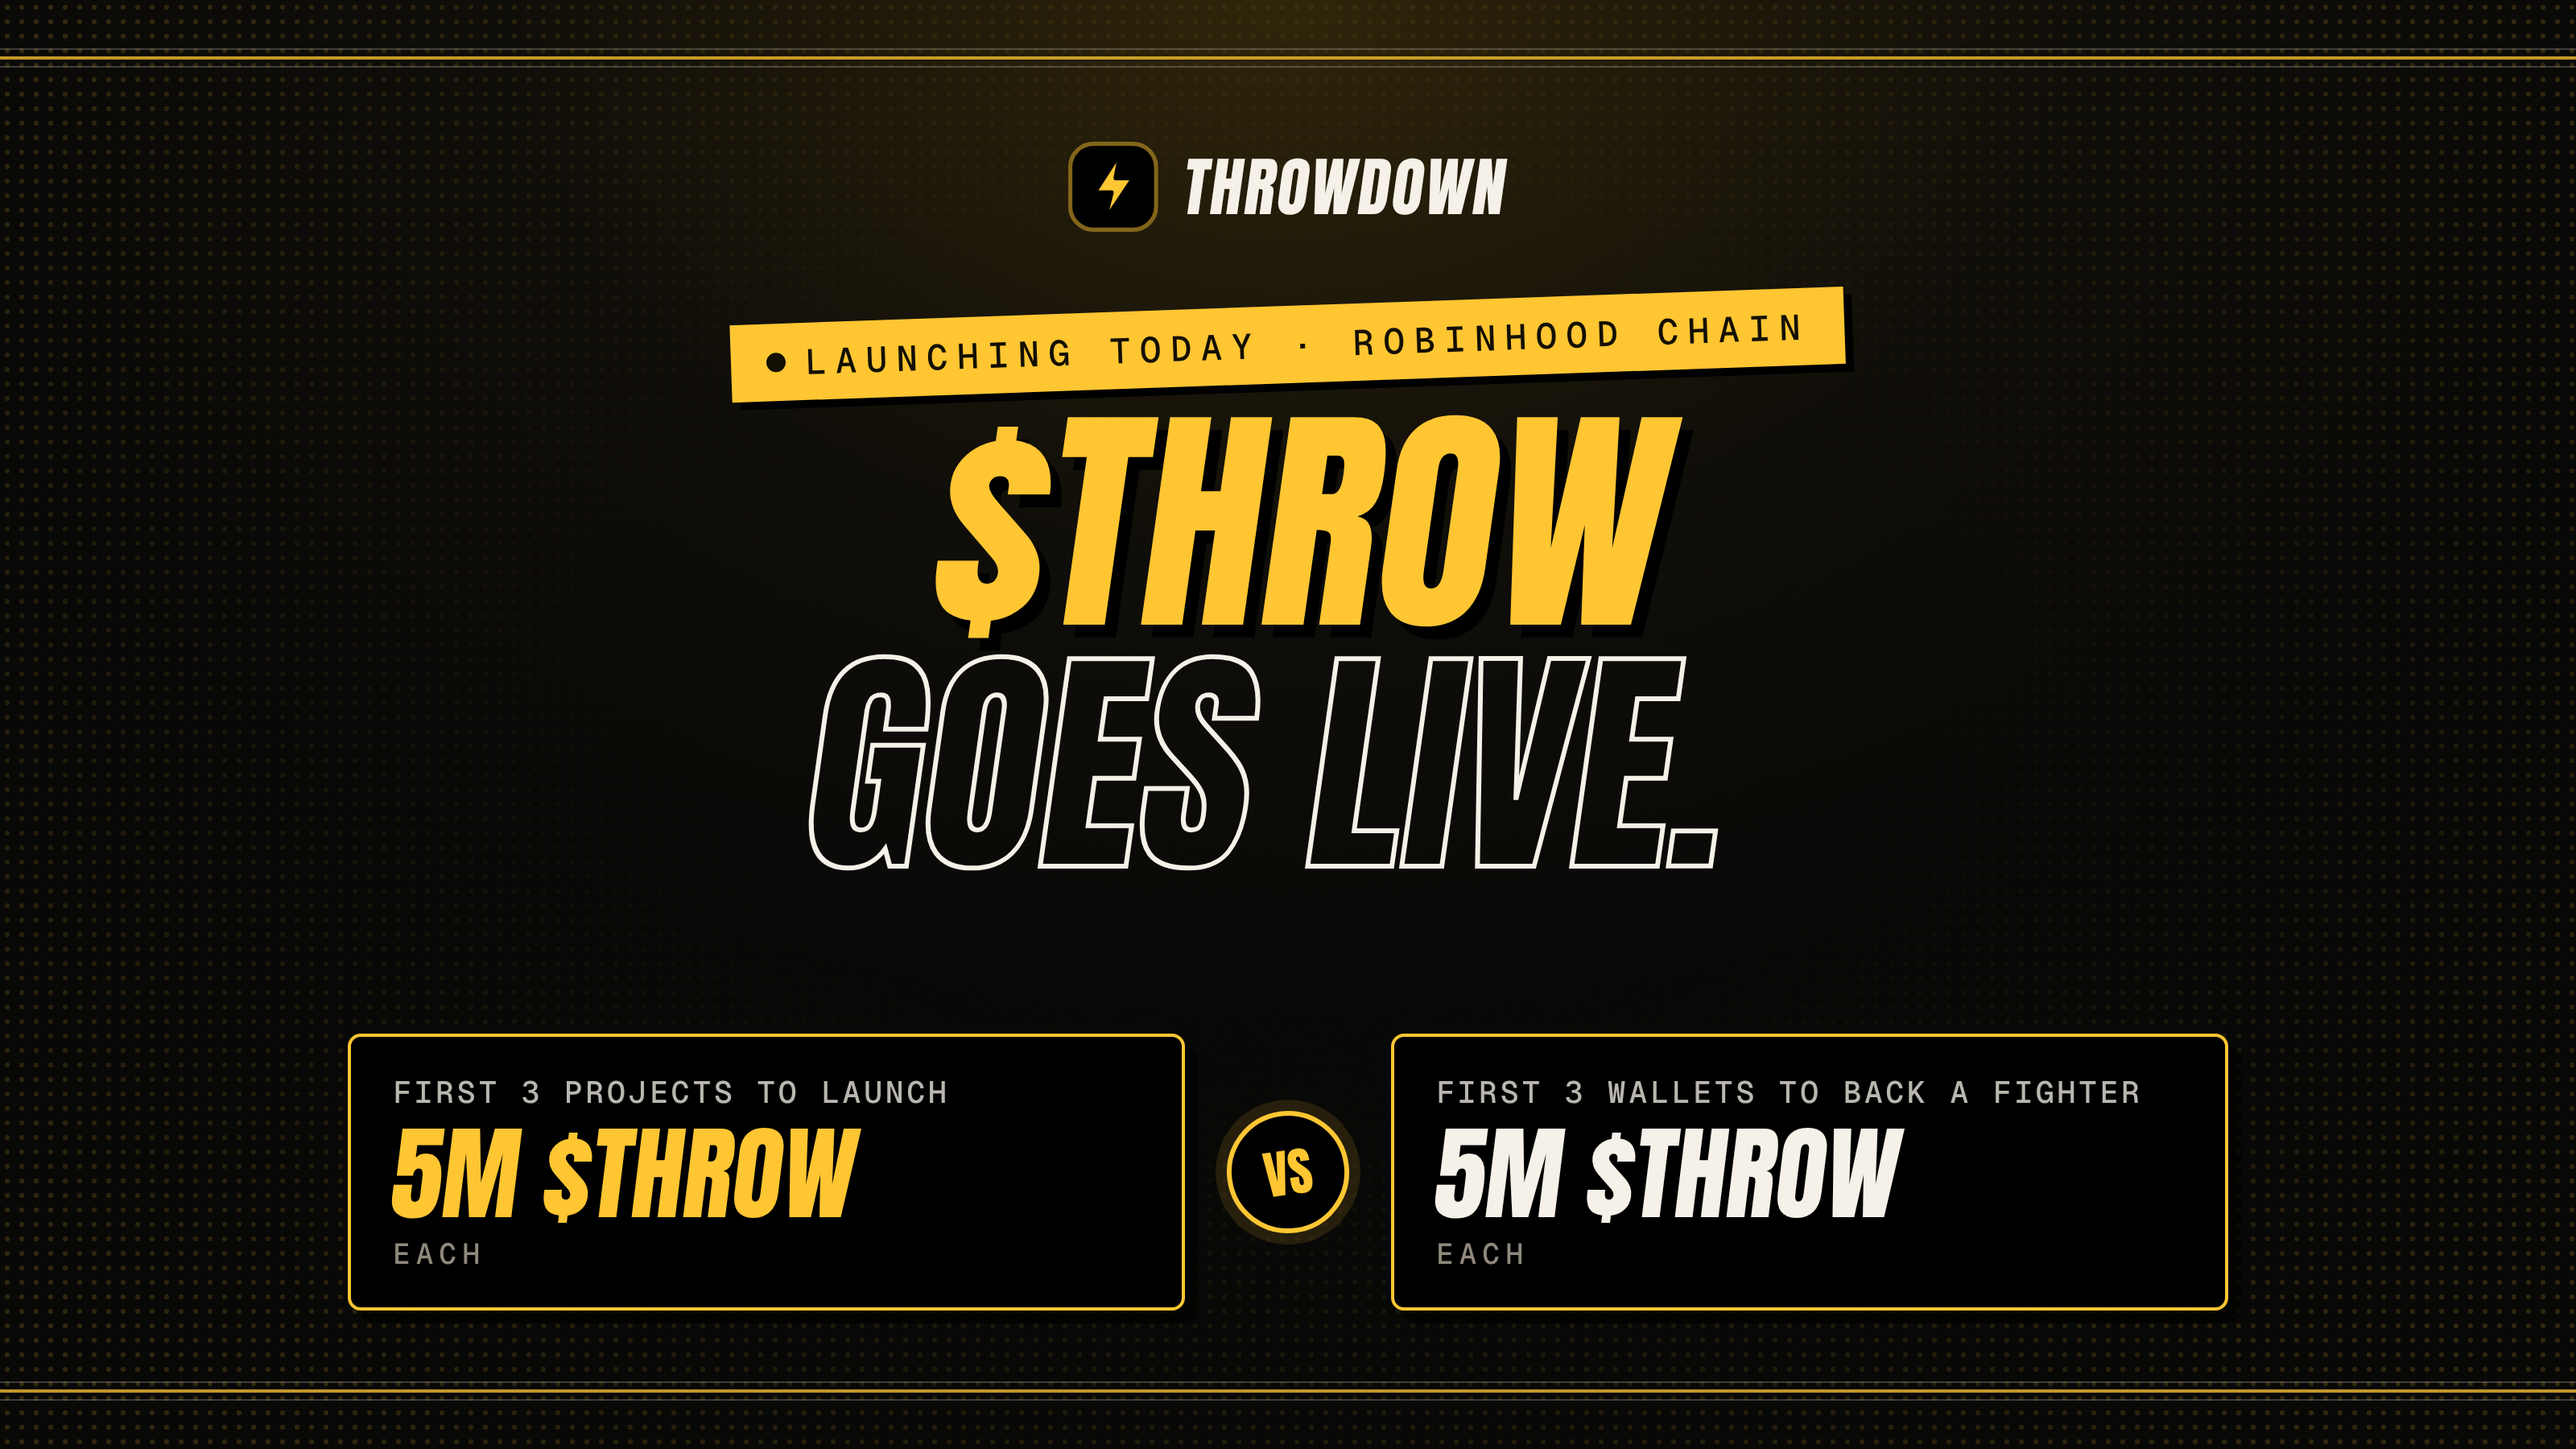
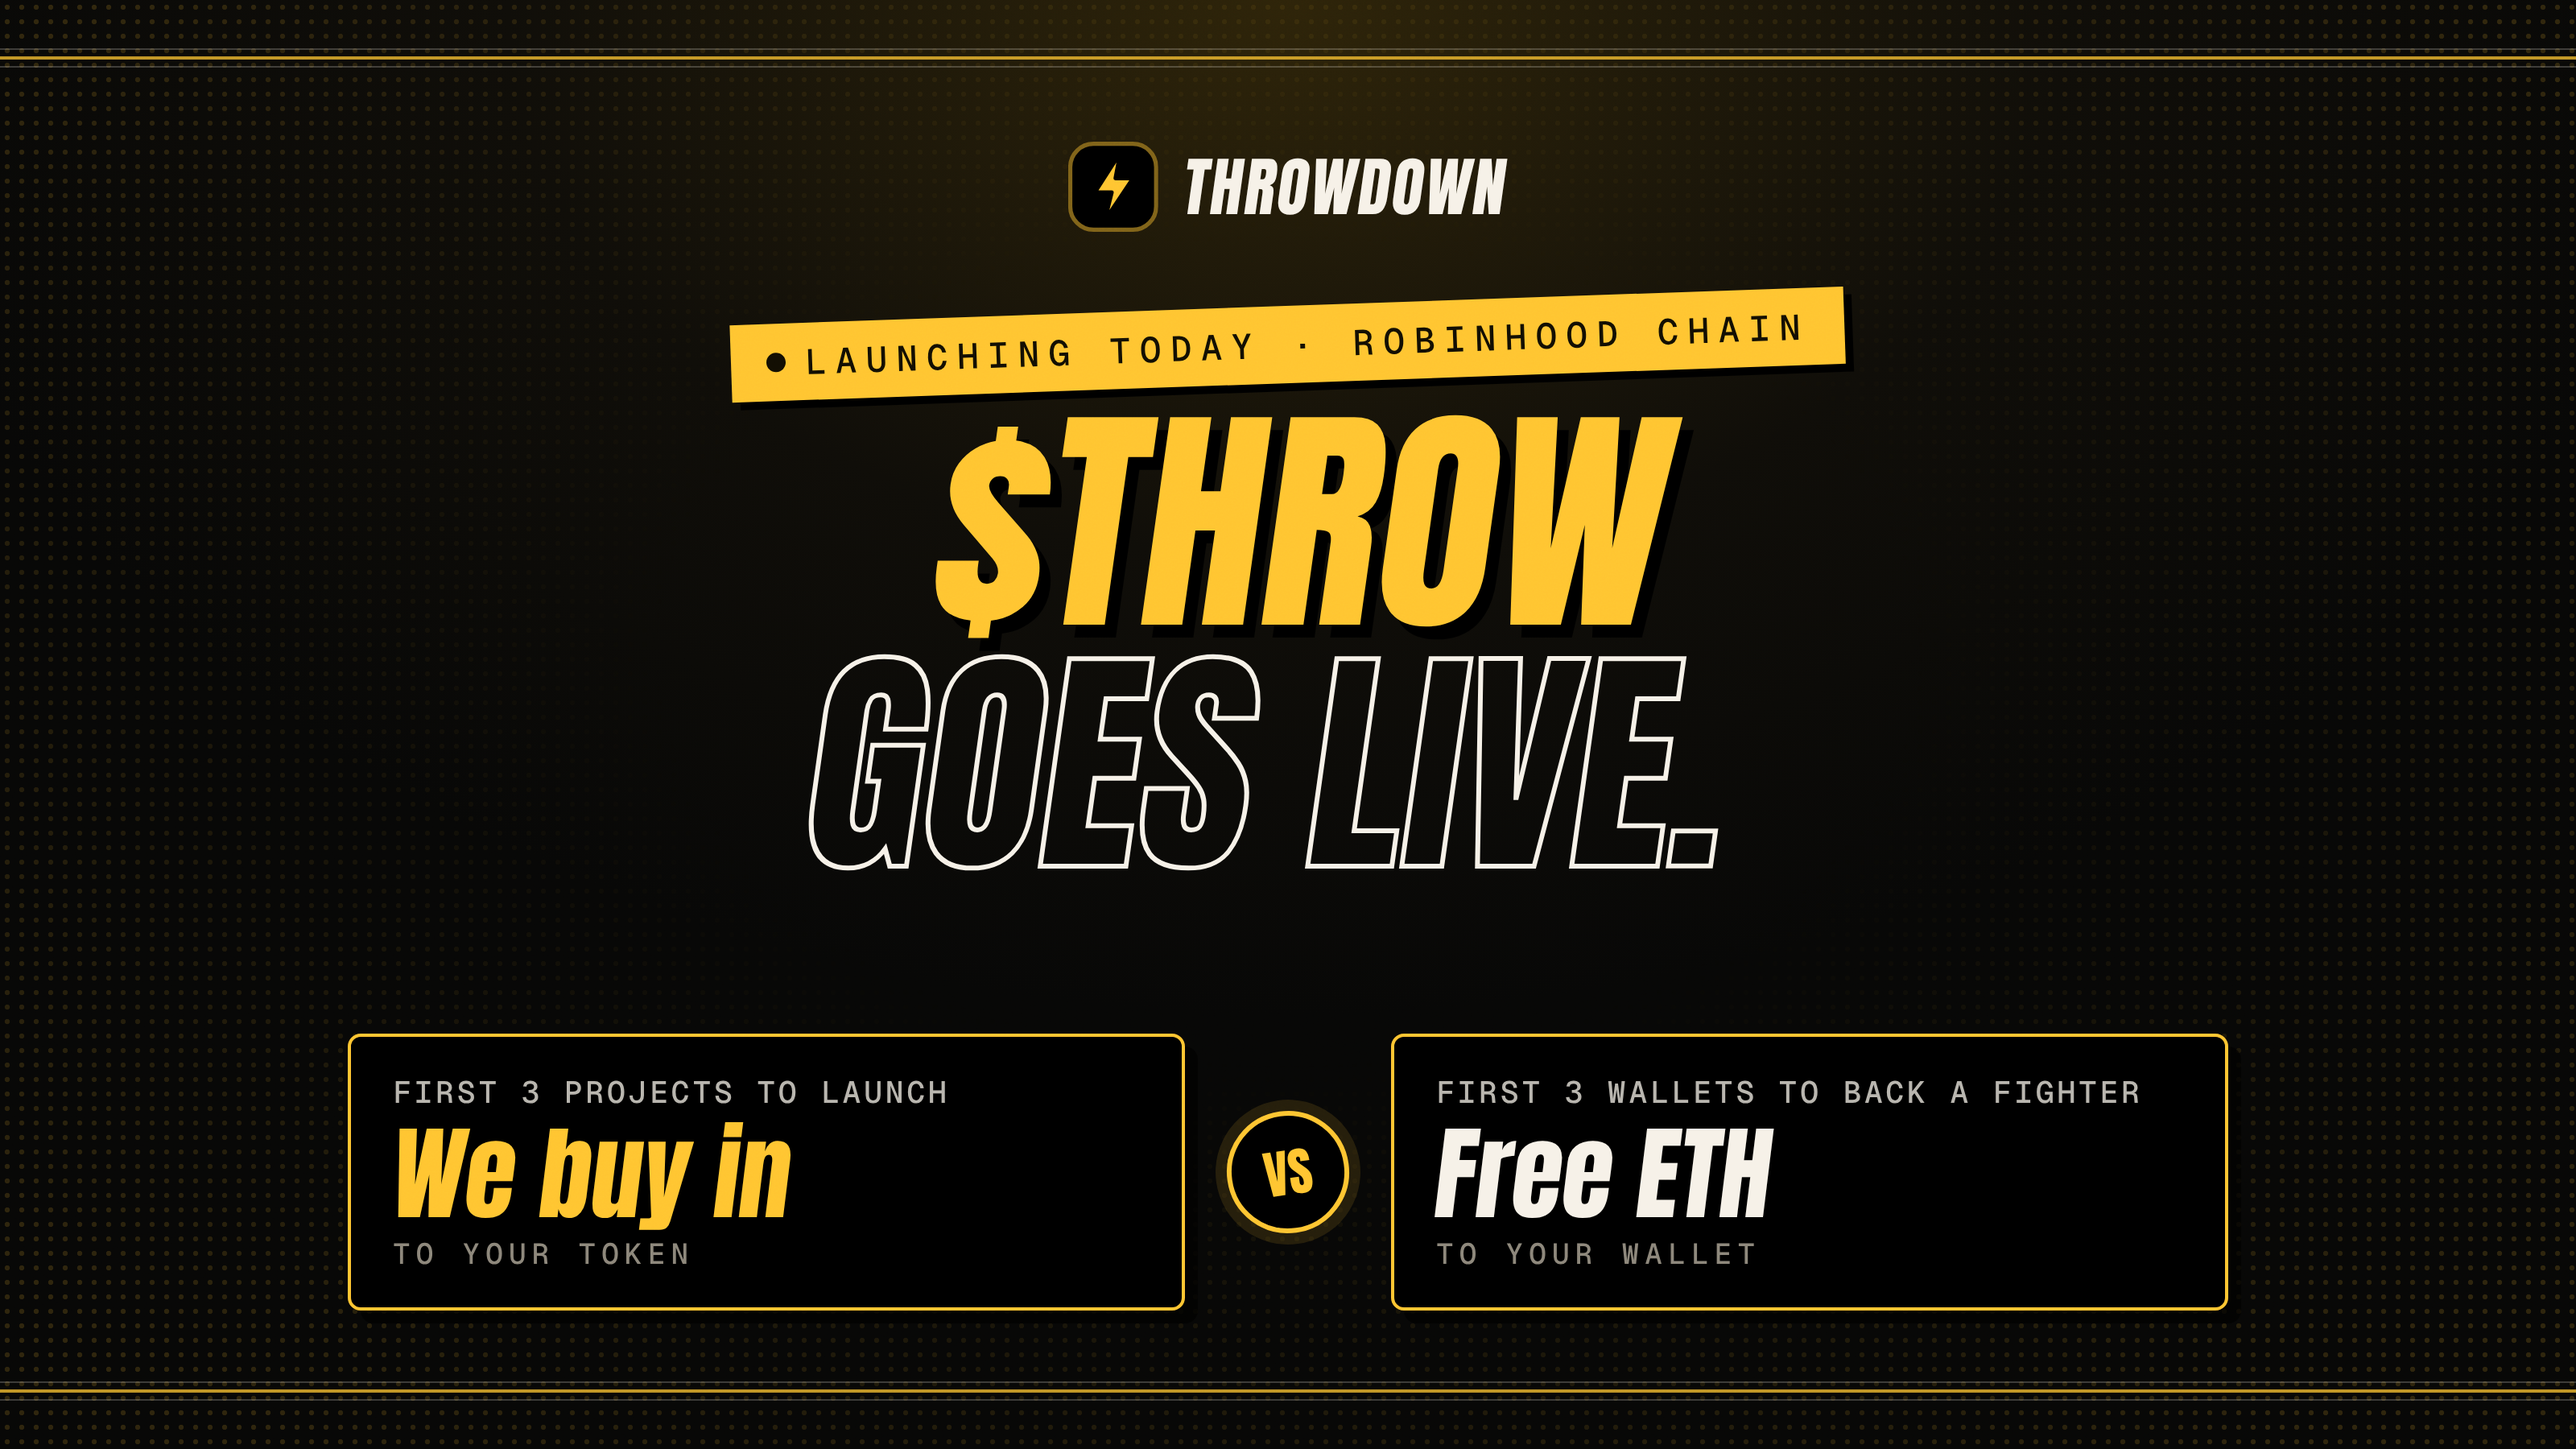
Swap giveaway rewards to buy-ins and ETH
Claude-Session: https://claude.ai/code/session_01Rdd2UEvvzUGUzfA7m6VNSB

Changed region(s): [[0.1562, 0.7778, 0.3438, 0.8711], [0.5625, 0.7778, 0.75, 0.8711]]

diff --git a/brand/kit/pons.html b/brand/kit/pons.html
@@ -30,5 +30,5 @@ h1 em { font-style: normal; color: var(--bell); -webkit-text-stroke: 0; text-sha
 <div class="mark"><svg viewBox="0 0 32 32"><rect width="32" height="32" rx="9" fill="#000"/><rect x=".75" y=".75" width="30.5" height="30.5" rx="8.25" fill="none" stroke="#ffc531" stroke-opacity=".5" stroke-width="1.5"/><path d="M18.5 4 9.5 18h6l-2.5 10 10-15h-6.2L18.5 4Z" fill="#ffc531" stroke="#000" stroke-width="1.4" stroke-linejoin="round"/></svg><span>THROWDOWN</span></div>
 <div class="live"><i></i>LAUNCHING TODAY · ROBINHOOD CHAIN</div>
 <h1><em>$THROW</em><br><span class="w">goes live.</span></h1>
-<div class="gw"><div class="card"><span class="t">First 3 projects to launch</span><b>5M $THROW</b><span class="e">each</span></div><div class="vs">VS</div><div class="card"><span class="t">First 3 wallets to back a fighter</span><b>5M $THROW</b><span class="e">each</span></div></div>
+<div class="gw"><div class="card"><span class="t">First 3 projects to launch</span><b>We buy in</b><span class="e">to your token</span></div><div class="vs">VS</div><div class="card"><span class="t">First 3 wallets to back a fighter</span><b>Free ETH</b><span class="e">to your wallet</span></div></div>
 </div></body></html>
